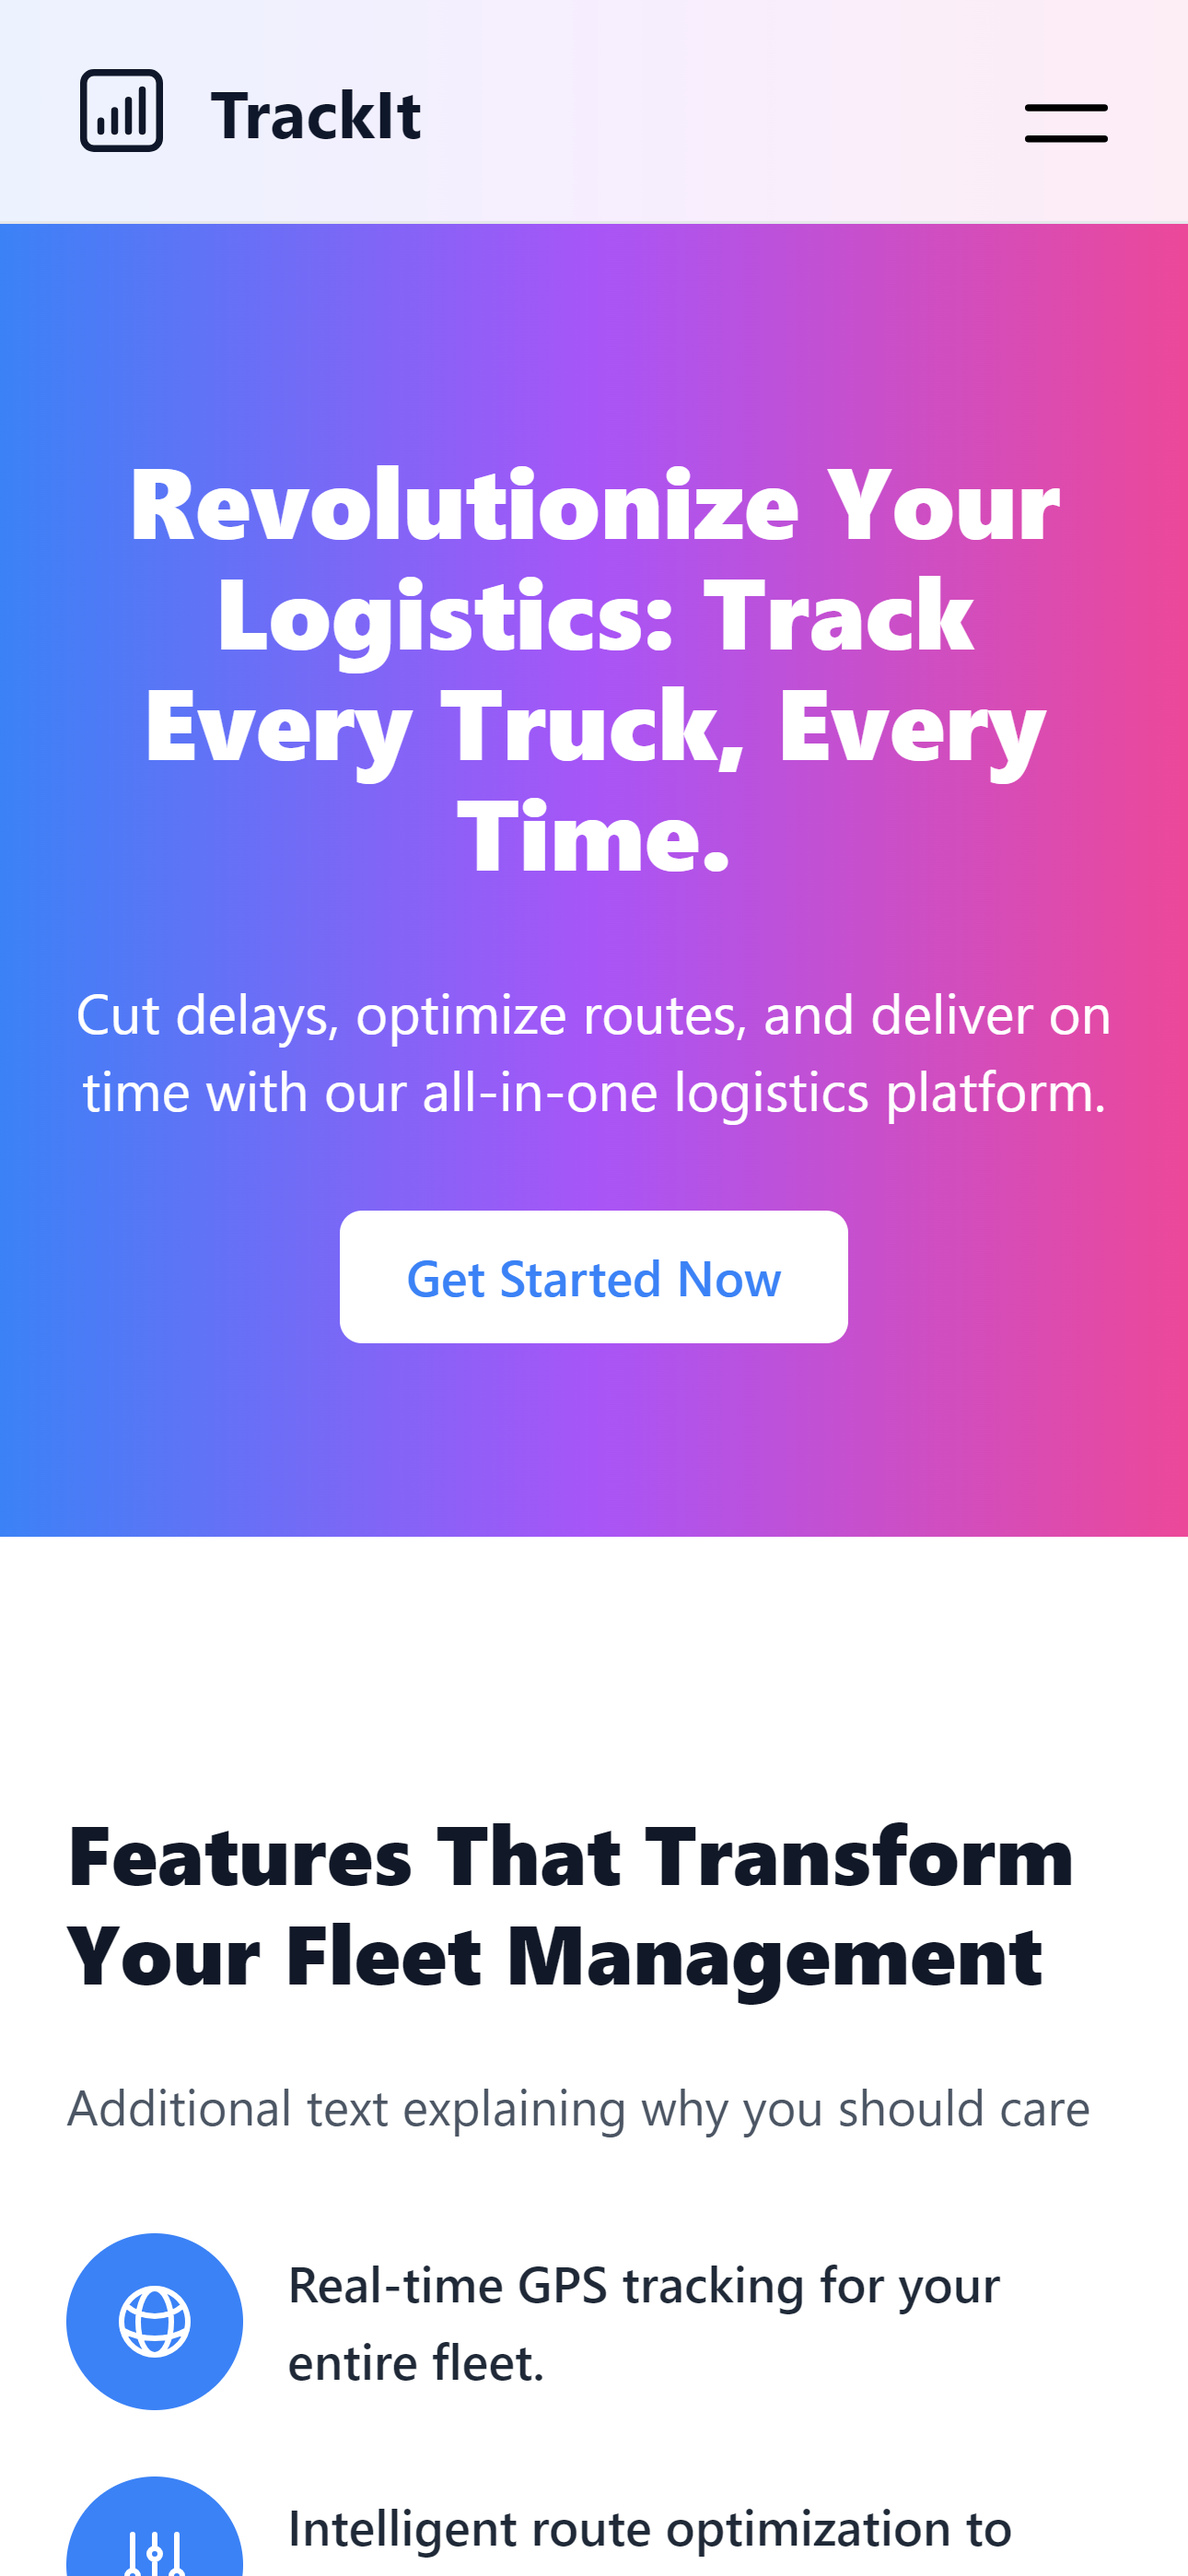
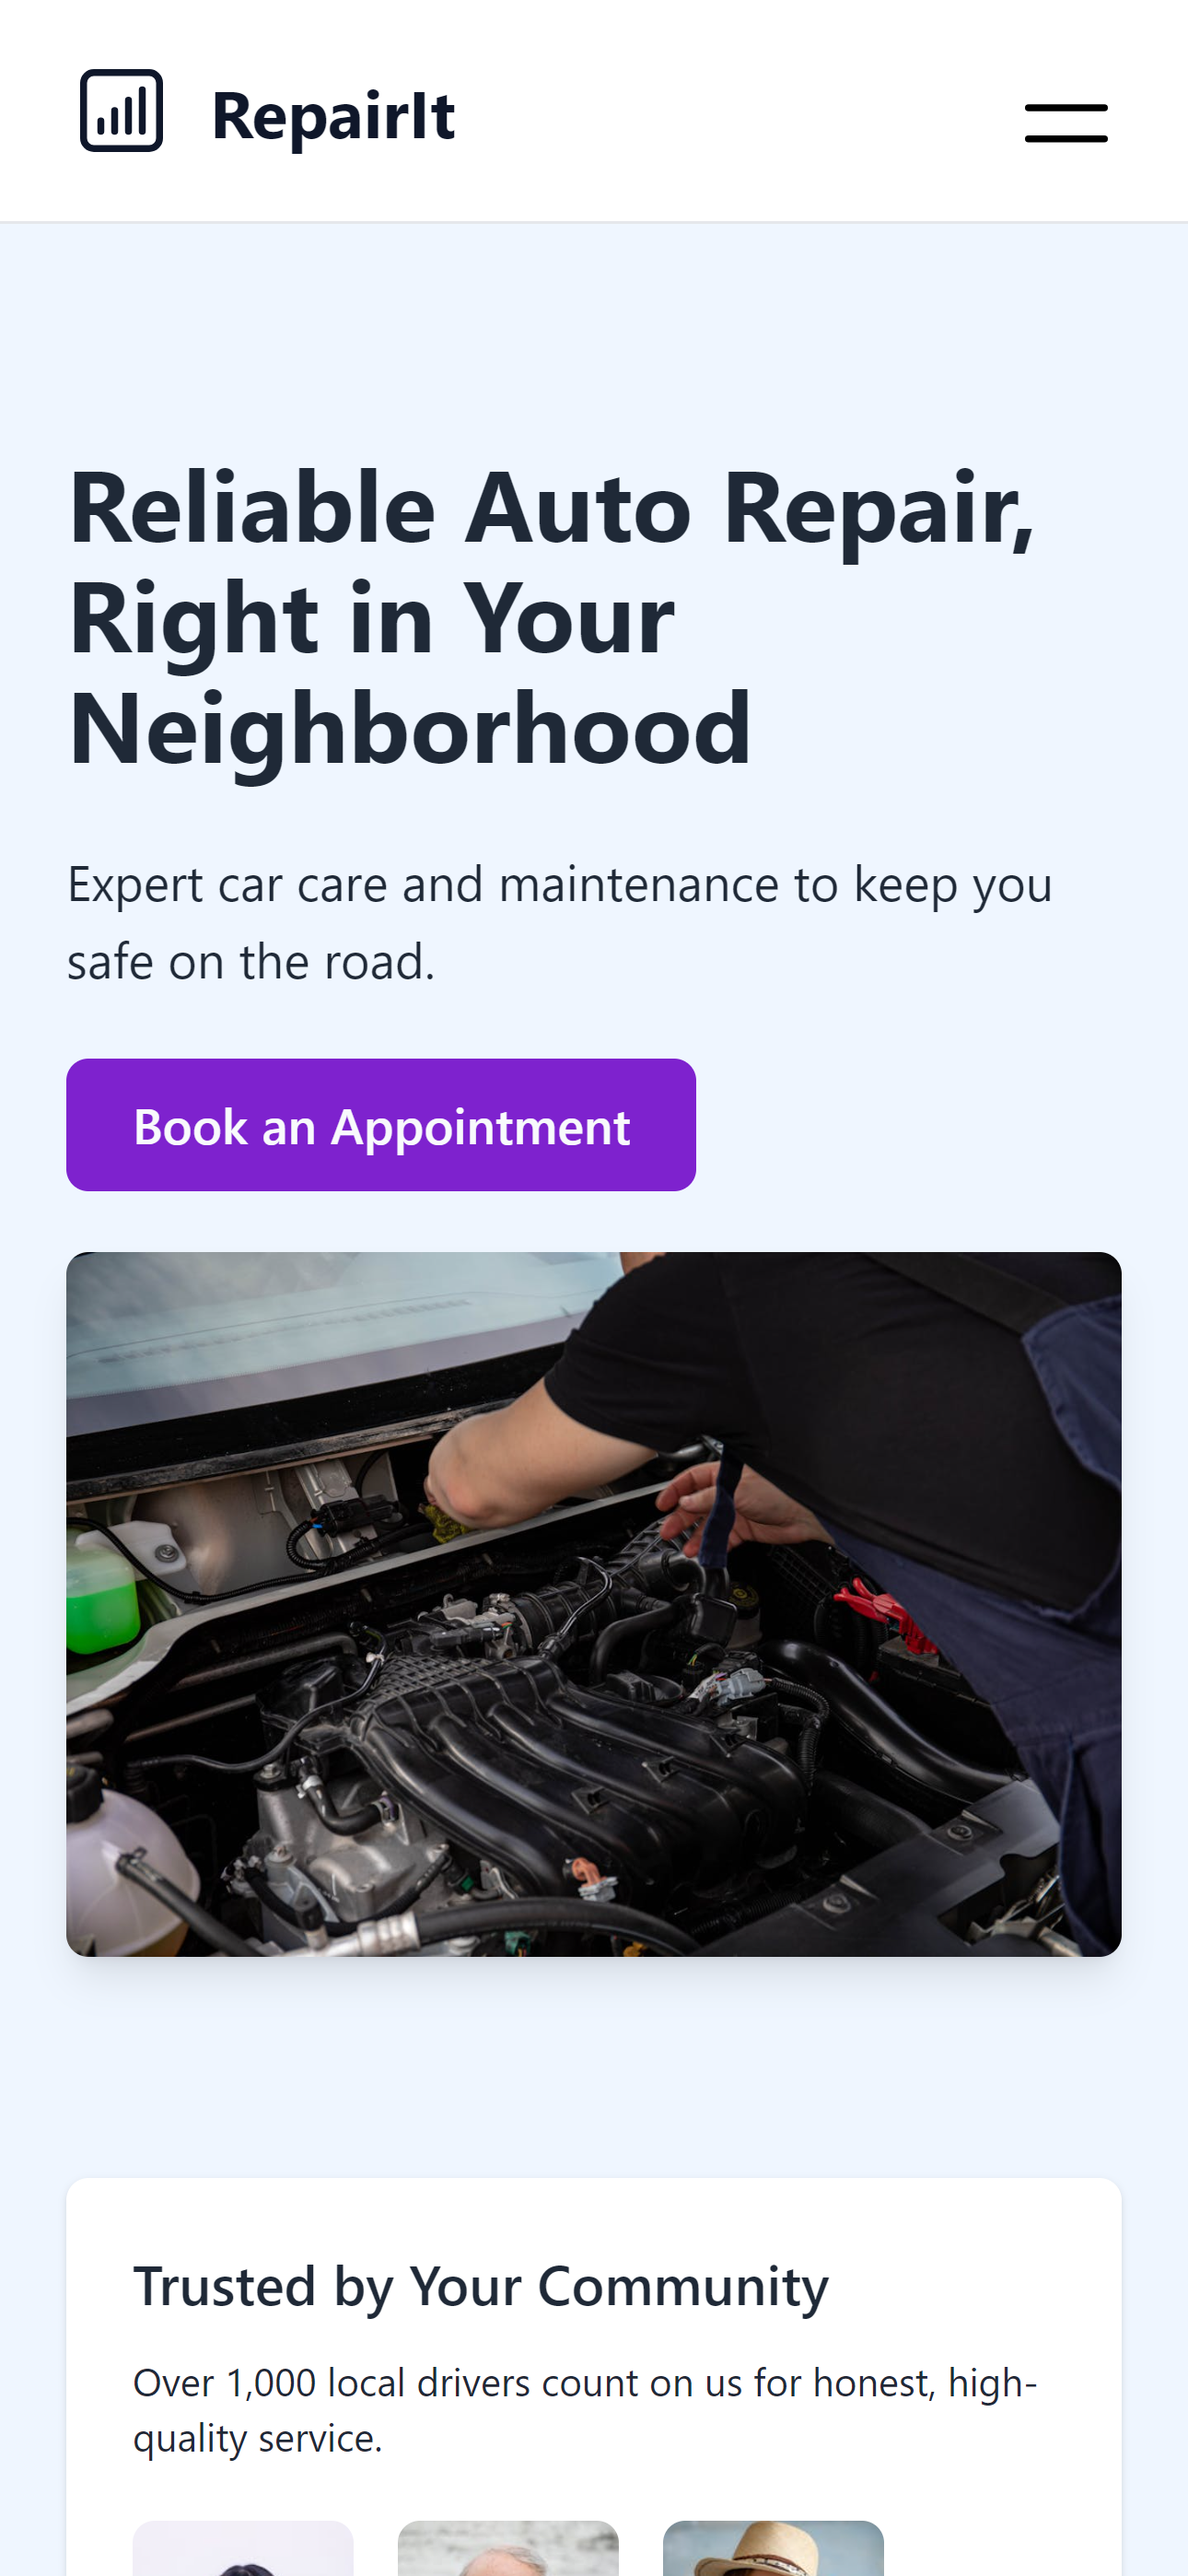
Update documentation

diff --git a/index.html b/index.html
@@ -20,7 +20,7 @@
                     <svg xmlns="http://www.w3.org/2000/svg" fill="none" viewBox="0 0 24 24" stroke-width="1.5" stroke="currentColor" class="size-10">
                         <path stroke-linecap="round" stroke-linejoin="round" d="M7.5 14.25v2.25m3-4.5v4.5m3-6.75v6.75m3-9v9M6 20.25h12A2.25 2.25 0 0 0 20.25 18V6A2.25 2.25 0 0 0 18 3.75H6A2.25 2.25 0 0 0 3.75 6v12A2.25 2.25 0 0 0 6 20.25Z"></path>
                     </svg>
-                    <span class="pl-3 text-2xl font-bold">TrackIt</span>
+                    <span class="pl-3 text-2xl font-bold">RepairIt</span>
                 </a>
             </div>
             <!-- End Navbar Header -->
@@ -59,35 +59,35 @@
                 id="nav-mobile"
             >
                 <div 
-                  class="flex-1 hover:text-blue-700 text-slate-900 font-medium"
+                  class="flex-1 hover:text-purple-700 text-slate-900 font-medium"
                 >
                     <a href="#hero" class="inline-block py-2 px-4 w-full flex-1 text-lg">
                         Home    
                     </a>
                 </div>
                 <div 
-                  class="flex-1 hover:text-blue-700 text-slate-600 font-medium"
+                  class="flex-1 hover:text-purple-700 text-slate-600 font-medium"
                 >
                     <a href="#reviews" class="inline-block py-2 px-4 w-full flex-1 text-lg">
                         Reviews   
                     </a>
                 </div>
                 <div 
-                  class="flex-1 hover:text-blue-700 text-slate-600 font-medium"
+                  class="flex-1 hover:text-purple-700 text-slate-600 font-medium"
                 >
                     <a href="#why-us" class="inline-block py-2 px-4 w-full flex-1 text-lg">
                         Why Us    
                     </a>
                 </div>
                 <div 
-                  class="flex-1 hover:text-blue-700 text-slate-600 font-medium"
+                  class="flex-1 hover:text-purple-700 text-slate-600 font-medium"
                 >
                     <a href="#services" class="inline-block py-2 px-4 w-full flex-1 text-lg">
                         Services    
                     </a>
                 </div>
                 <div 
-                  class="flex-1 hover:text-blue-700 text-slate-600 font-medium"
+                  class="flex-1 hover:text-purple-700 text-slate-600 font-medium"
                 >
                     <a href="#book-appointment" class="inline-block py-2 px-4 w-full flex-1 text-lg">
                         Book an Appointment    

diff --git a/README.md b/README.md
@@ -1,8 +1,8 @@
-# Tunza - Free Tailwind HTML Landing Page Template
+# Gari - Free Tailwind HTML Landing Page Template
 
-Tunza is the perfect landing page for SAAS and businesses. It's built with Tailwind CSS, HTML and Vite.
+Gari is the perfect landing page for businesses and SAASs. It's built with Tailwind CSS, HTML and Vite.
 
-![Tunza Template Screenshot](public/docs/cover.png)
+![Gari Template Screenshot](public/docs/cover.png)
 
 [Demo]()
 [Download]()
@@ -22,8 +22,8 @@ Download the project. Inside the root of the project:
 This command will generate a Build folder `/dist/` in the root of the project that you can upload to your server.
 
 
-Tunza is based on Tailwind CSS which is a powerful, utility-first CSS framework that helps you build highly customizable and fast-loading websites.
+Gari is based on Tailwind CSS which is a powerful, utility-first CSS framework that helps you build highly customizable and fast-loading websites.
 
 ## License 
 
-Tunza Tailwind HTML Landing Page template is 100% free and open-source, allowing you to use it freely for both personal and commercial projects without any need for attribution or credits.
+Gari Tailwind HTML Landing Page template is 100% free and open-source, allowing you to use it freely for both personal and commercial projects without any need for attribution or credits.
